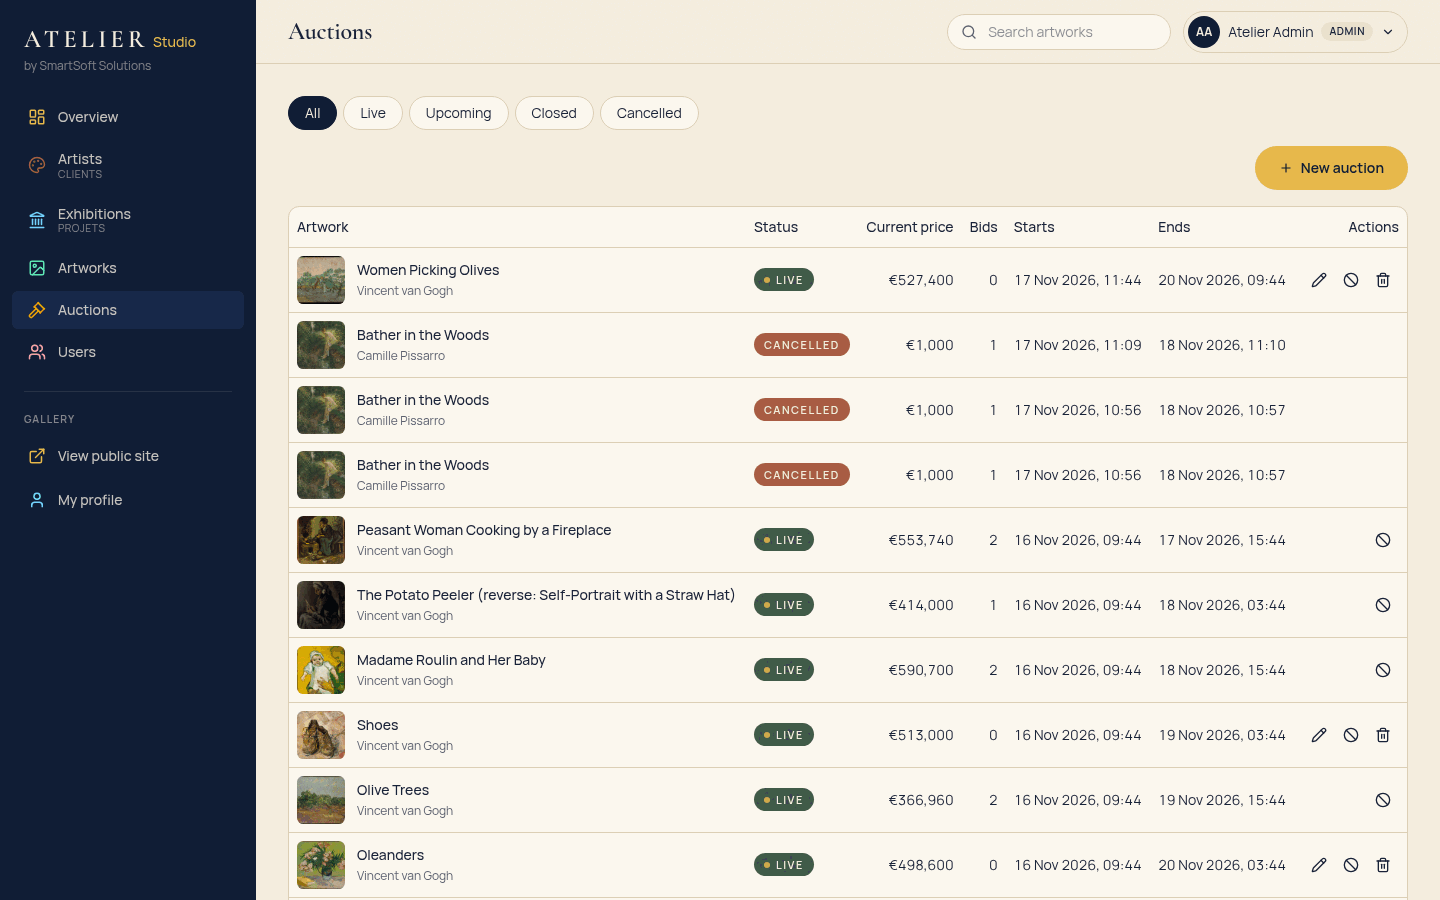
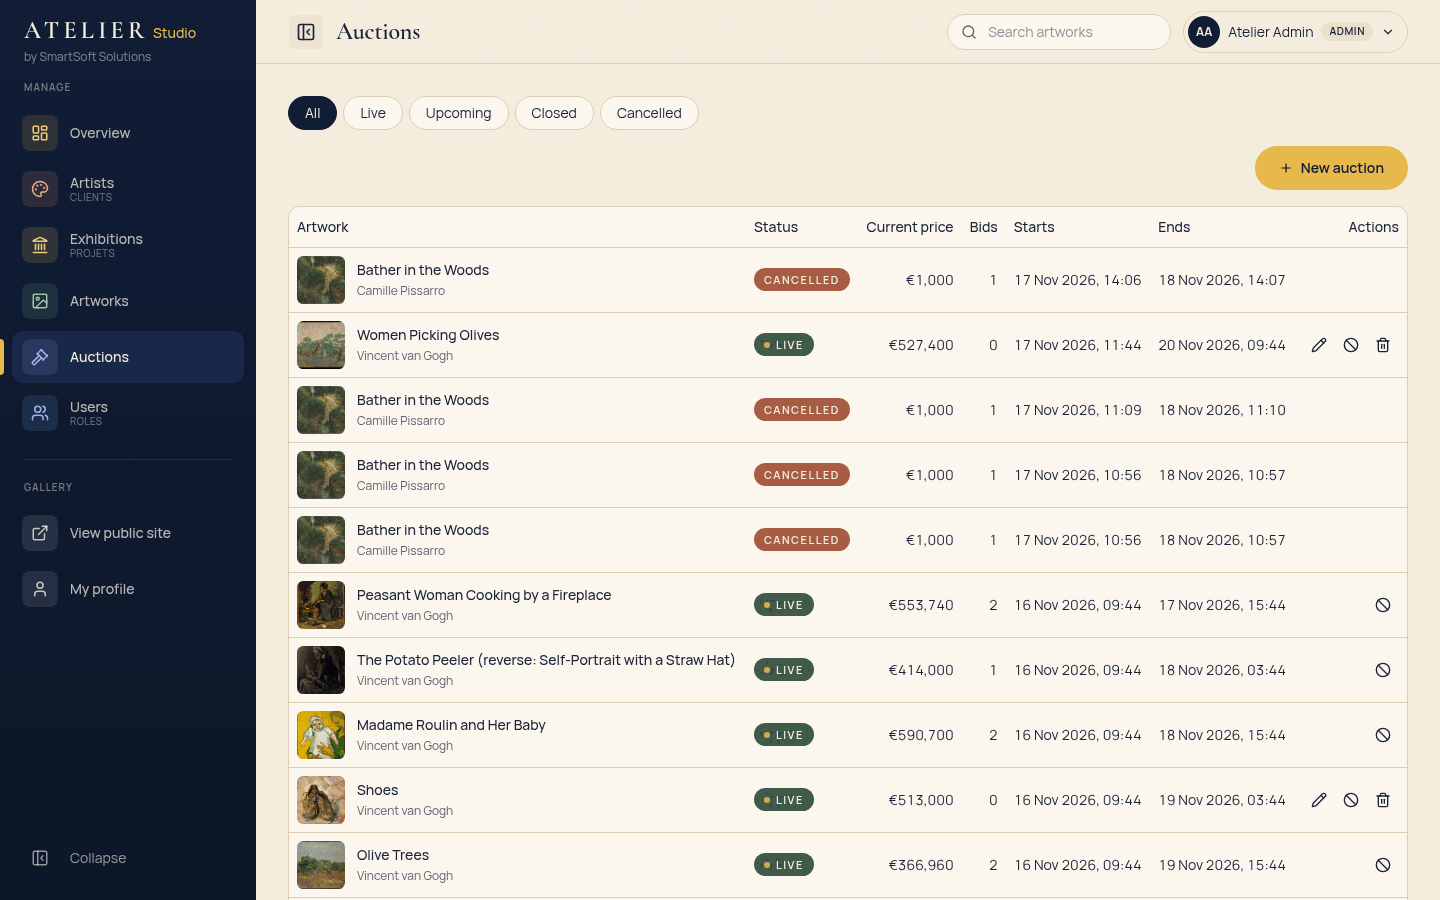
Test the Collaborateur exhibition delete refusal and refresh the guide and captures

diff --git a/docs/USER_GUIDE.md b/docs/USER_GUIDE.md
@@ -67,13 +67,15 @@ Staff accounts cannot bid; use a bidder account.
 
 Sign in; you land in the **Studio** (`/studio`).
 
-1. **Overview**: the gradient header shows KPI cards (artists, exhibitions, open auctions, bids) with weekly trends. Below: a line chart of bid activity, a bar chart of auctions by status, recent bids, ending-soon auctions and a ranking of artists with progress bars. Use **Quick actions** to jump straight to a creation form.
+1. **Overview**: the gradient header shows KPI cards (artists, exhibitions, bids placed, users) with weekly trends; each card links to its section. Below: **Bid activity** shows daily bids as bars and volume as a line, with a 7/14-day switch; **Auctions by status** is a doughnut with counts and shares. Then come recent bids, ending-soon auctions and a ranking of artists with progress bars. Use **Quick actions** to jump straight to a creation form.
 2. **Artists** (the specification's *Clients*): search, view the list and open details; click **New artist** and fill name, email (required), phone, address, country, biography and photo URL.
 3. **Exhibitions** (*Projets*): view the list and create an exhibition with title, budget, duration in days, description, optional start date, venue, cover image and the artist.
 4. **Artworks**: view and create works; set the status (`DRAFT` stays hidden from the public, `PUBLISHED` is visible), the artist and optionally an exhibition of that same artist.
 5. **My profile**: update your name and phone, change your password.
 
 What is hidden from you: edit and delete actions, the **Auctions** page and the **Users** page. These are blocked by the server too, so opening their URLs shows an access-denied page.
+
+The sidebar can be collapsed to icons with the panel button in the top bar, or with **Collapse** at the bottom of the sidebar. Your choice is remembered in this browser, and hovering an icon shows its name.
 
 ## Administrator
 
